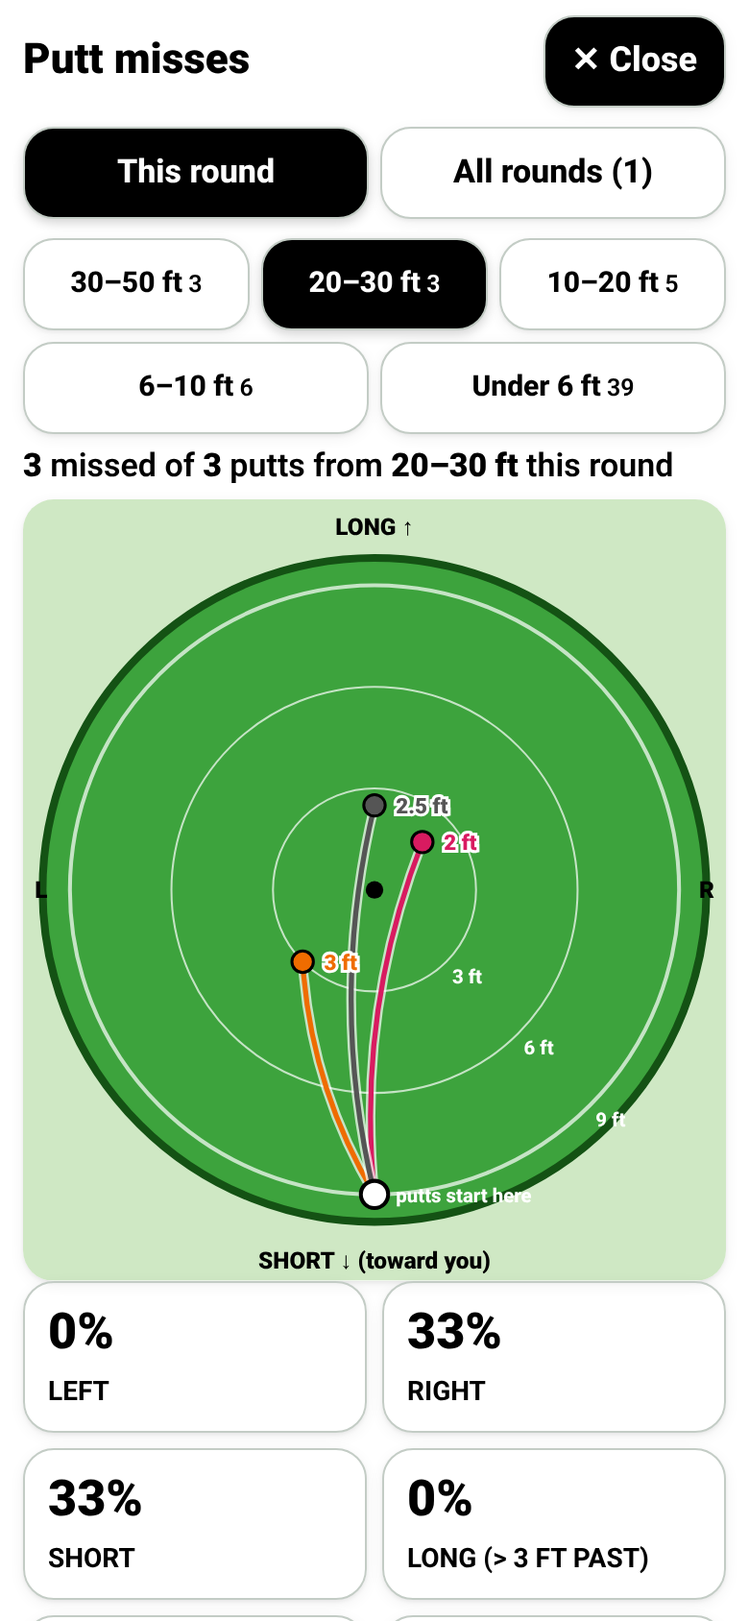
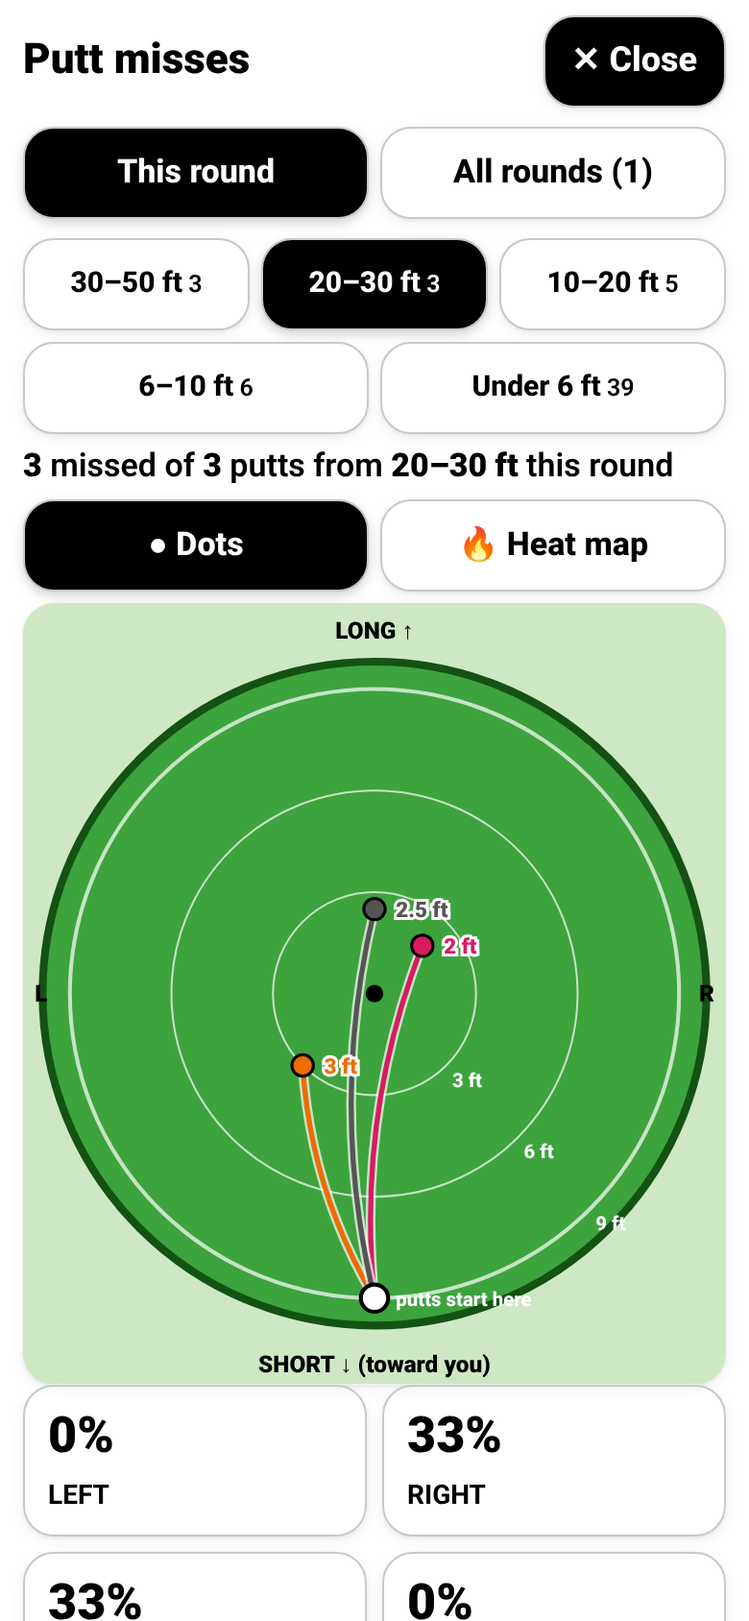
v50: heat maps with islands + average finish on prox/GIR/miss/pin/putt/putt-miss maps

diff --git a/app.js b/app.js
@@ -102,7 +102,7 @@
     else if (view.screen === 'home' || !round()) el.innerHTML = homeHTML();
     else if (view.screen === 'hole') el.innerHTML = holeHTML() + (view.pinOpen ? pinHTML() : '') + (view.replay != null ? replayHTML() : '');
     else if (view.screen === 'about') el.innerHTML = aboutHTML();
-    else { el.innerHTML = summaryHTML() + (view.map ? mapHTML() : '') + (view.replay != null ? replayHTML() : ''); if (view.preview) previewOnly(el); }
+    else { el.innerHTML = summaryHTML() + (view.map ? mapHTML() : '') + (view.replay != null ? replayHTML() : ''); if (view.map) applyHeat(); if (view.preview) previewOnly(el); }
     if (view.screen !== 'hole') document.body.classList.toggle('noscroll', !!(view.map && view.screen === 'summary'));
     if (view.replay != null) document.body.classList.add('noscroll');
     if (view.screen !== 'about') infoize(el);
@@ -974,7 +974,7 @@
       ms.forEach(function (m, i) {
         var ring = i % 3, col = Math.floor(i / 3) % 7, off = (col % 2 ? 1 : -1) * Math.ceil(col / 2) * 6;
         var p = pt(C, CY, (diag ? 96 : 92) + ring * 14, a + off);
-        out += '<circle class="mdot" cx="' + f1(p[0]) + '" cy="' + f1(p[1]) + '" r="6" fill="' + (LIE_COL[m.lie] || '#888') + '" stroke="#000" stroke-width="2"/>';
+        out += '<circle class="mdot" data-hd="' + (m.dist || 0) + '" data-hu="' + (m.unit || 'yd') + '" cx="' + f1(p[0]) + '" cy="' + f1(p[1]) + '" r="6" fill="' + (LIE_COL[m.lie] || '#888') + '" stroke="#000" stroke-width="2"/>';
       });
       var b = pt(C, CY, diag ? 172 : 150, a);
       out += '<g class="mcount" data-dir="' + d + '"><circle cx="' + f1(b[0]) + '" cy="' + f1(b[1]) + '" r="15" fill="' + (c[d] ? '#000' : '#fff') + '" stroke="#000" stroke-width="2"/>' +
@@ -1001,10 +1001,10 @@
       var key = (m.holed ? 'h' : m.dir || 'none') + Math.round(rr / 6), j = seen[key] = (seen[key] || 0) + 1;
       var p = m.holed ? [C - 14 + (j - 1) * 14, CY + 16] : pt(C, CY, rr, (nodir ? 90 : SG.DIR_ANGLE[m.dir]) + (j - 1) * (nodir ? 8 : 6));
       var x = f1(p[0]), y = f1(p[1]), kind = m.holed ? 'holed' : nodir ? 'nodir' : 'dir';
-      if (m.holed) out += '<path class="gdot" data-kind="holed" data-hole="' + m.hole + '" d="M' + x + ' ' + (y - 10) + ' l3 6.5 7 .8 -5.3 4.8 1.5 7 -6.2 -3.6 -6.2 3.6 1.5 -7 -5.3 -4.8 7 -.8z" fill="#ffd23f" stroke="#000" stroke-width="2"/>';
-      else if (nodir) out += '<g class="gdot" data-kind="nodir" data-hole="' + m.hole + '" data-x="' + x + '" data-y="' + y + '"><path d="M' + x + ' ' + (y - 10) + ' l10 10 -10 10 -10 -10z" fill="' + (far ? '#ffd23f' : '#c9c9c9') + '" stroke="#000" stroke-width="2.5"/>' +
+      if (m.holed) out += '<path class="gdot" data-hd="' + (m.holed ? 0 : m.ft) + '" data-hu="ft" data-kind="holed" data-hole="' + m.hole + '" d="M' + x + ' ' + (y - 10) + ' l3 6.5 7 .8 -5.3 4.8 1.5 7 -6.2 -3.6 -6.2 3.6 1.5 -7 -5.3 -4.8 7 -.8z" fill="#ffd23f" stroke="#000" stroke-width="2"/>';
+      else if (nodir) out += '<g class="gdot" data-hd="' + (m.holed ? 0 : m.ft) + '" data-hu="ft" data-kind="nodir" data-hole="' + m.hole + '" data-x="' + x + '" data-y="' + y + '"><path d="M' + x + ' ' + (y - 10) + ' l10 10 -10 10 -10 -10z" fill="' + (far ? '#ffd23f' : '#c9c9c9') + '" stroke="#000" stroke-width="2.5"/>' +
         '<text x="' + x + '" y="' + f1(p[1] + 5) + '" text-anchor="middle" font-size="13" font-weight="900" fill="#000">?</text></g>';
-      else out += '<circle class="gdot" data-kind="dir" data-hole="' + m.hole + '" cx="' + x + '" cy="' + y + '" r="8" fill="' + (far ? '#ffd23f' : '#fff') + '" stroke="#000" stroke-width="2.5"/>';
+      else out += '<circle class="gdot" data-hd="' + (m.holed ? 0 : m.ft) + '" data-hu="ft" data-kind="dir" data-hole="' + m.hole + '" cx="' + x + '" cy="' + y + '" r="8" fill="' + (far ? '#ffd23f' : '#fff') + '" stroke="#000" stroke-width="2.5"/>';
       if (far) out += '<text class="farlbl" x="' + f1(p[0] + 12) + '" y="' + f1(p[1] + 5) + '" font-size="14" font-weight="900" fill="#000" stroke="#ffd23f" stroke-width="3" paint-order="stroke">' + Math.round(ft) + ' ft</text>';
     });
     out += '<text x="180" y="17" text-anchor="middle" font-size="14" font-weight="800">LONG ↑</text>' +
@@ -1140,6 +1140,70 @@
   // ---------- proximity by distance ----------
   function fmtFt(v) { return v == null ? '–' : Math.round(v) + ' ft'; }
   // ---------- Putting green ----------
+  // ---------- Heat maps (app only) ----------
+  // Every map marker carries data-hd (distance to the hole) + data-hu (ft|yd). Heat mode hides the dots and
+  // paints soft density blobs; nearby blobs are grouped into "islands" (single-linkage, 40 px), each labelled
+  // with its average distance and shot count; a crosshair marks the average finish of all plotted shots.
+  var HEAT_MAPS = { gir: 'girmap', miss: 'missmap', pin: 'pinmap', prox: 'proxmap', putt: 'puttmap', pmiss: 'pmissmap' };
+  var HEAT_LINK = 62;
+  function heatCenter(svg, kind) {
+    if (kind === 'prox') return [PX.cx, PX.cy];
+    if (kind === 'putt') return [PG2.cx, PG2.cy];
+    if (kind === 'pin') { var f = svg.querySelector('#pinflag'); if (f) return [+f.getAttribute('cx'), +f.getAttribute('cy')]; }
+    return [180, 200];
+  }
+  function heatIslands(pts, link) {
+    var id = pts.map(function (_, i) { return i; }), find = function (i) { while (id[i] !== i) i = id[i] = id[id[i]]; return i; };
+    for (var i = 0; i < pts.length; i++) for (var j = i + 1; j < pts.length; j++) if (Math.hypot(pts[i].x - pts[j].x, pts[i].y - pts[j].y) <= link) id[find(i)] = find(j);
+    var g = {}; pts.forEach(function (p, i) { (g[find(i)] = g[find(i)] || []).push(p); });
+    return Object.keys(g).map(function (k) { return g[k]; }).sort(function (a, b) { return b.length - a.length; });
+  }
+  function heatFmt(list) { // average distance; yards when every shot is off the green in yd, else feet
+    var yd = list.every(function (p) { return p.u === 'yd'; }), v = list.reduce(function (a, p) { return a + (yd ? p.d : p.u === 'yd' ? p.d * 3 : p.d); }, 0) / list.length;
+    return Math.round(v) + (yd ? ' yd' : ' ft');
+  }
+  function applyHeat() {
+    var mv = document.getElementById('mapview'); if (!mv || !HEAT_MAPS[view.map]) return;
+    var svg = mv.querySelector('#' + HEAT_MAPS[view.map]); if (!svg) return;
+    var C = heatCenter(svg, view.map), NS = 'http://www.w3.org/2000/svg', pts = [];
+    svg.querySelectorAll('[data-hd]').forEach(function (e) {
+      var k = (e.getAttribute('data-kind') || '') + (e.getAttribute('data-class') || ''); if (/nodir/.test(k)) return;
+      var b = e.getBBox(); pts.push({ x: b.x + b.width / 2, y: b.y + b.height / 2, d: +e.getAttribute('data-hd') || 0, u: e.getAttribute('data-hu') || 'ft' });
+    });
+    var auto = (view.mapScope === 'all' && rounds.length > 1) || pts.length > 15, on = view.heat == null ? auto : view.heat;
+    var tg = document.createElement('div'); tg.className = 'seg heattog'; tg.id = 'heattog';
+    tg.innerHTML = '<button data-act="heat" data-v="0" class="' + (on ? '' : 'sel') + '" aria-pressed="' + !on + '">● Dots</button><button data-act="heat" data-v="1" class="' + (on ? 'sel' : '') + '" aria-pressed="' + on + '"' + (pts.length ? '' : ' disabled') + '>🔥 Heat map</button>';
+    var anc = svg; while (anc.parentNode && anc.parentNode !== mv) anc = anc.parentNode;
+    anc.parentNode.insertBefore(tg, anc);
+    if (!on || !pts.length) return;
+    svg.classList.add('heat');
+    var h = '<defs><radialGradient id="hgrad"><stop offset="0" stop-color="#ff1e00" stop-opacity=".62"/><stop offset=".45" stop-color="#ff9a00" stop-opacity=".34"/><stop offset="1" stop-color="#ffe600" stop-opacity="0"/></radialGradient></defs>';
+    pts.forEach(function (p) { h += '<circle class="hblob" cx="' + f1(p.x) + '" cy="' + f1(p.y) + '" r="26" fill="url(#hgrad)"/>'; });
+    var isl = heatIslands(pts, HEAT_LINK), boxes = [];
+    isl.forEach(function (g, i) {
+      var mx = g.reduce(function (a, p) { return a + p.x; }, 0) / g.length, top = Math.min.apply(null, g.map(function (p) { return p.y; }));
+      var t = heatFmt(g) + ' · ' + g.length + (g.length === 1 ? ' shot' : ' shots'), w = t.length * 6.2 + 10, x = Math.max(4, Math.min(356 - w, mx - w / 2)), y = top - 34;
+      for (var k = 0; k < 6 && boxes.some(function (b) { return x < b[2] && x + w > b[0] && y < b[3] && y + 18 > b[1]; }); k++) y += 22;
+      if (y < 4) y = top + 28; boxes.push([x, y, x + w, y + 18]);
+      h += '<g class="island" data-n="' + g.length + '"><rect x="' + f1(x) + '" y="' + f1(y) + '" width="' + f1(w) + '" height="18" rx="9" fill="#fff" fill-opacity=".93" stroke="#7a2a00"/>' +
+        '<text x="' + f1(x + w / 2) + '" y="' + f1(y + 13) + '" text-anchor="middle" font-size="11" font-weight="900" fill="#7a2a00">' + esc(t) + '</text></g>';
+    });
+    // average finish (all plotted shots): pixel mean for the marker, real distances for the words
+    var ax = 0, ay = 0, lr = 0, lg = 0, yd = pts.every(function (p) { return p.u === 'yd'; });
+    pts.forEach(function (p) { ax += p.x; ay += p.y; var dx = p.x - C[0], dy = C[1] - p.y, L = Math.hypot(dx, dy) || 1, d = yd ? p.d : p.u === 'yd' ? p.d * 3 : p.d; lr += d * dx / L; lg += d * dy / L; });
+    ax /= pts.length; ay /= pts.length; lr /= pts.length; lg /= pts.length;
+    h += '<g id="heatavg"><circle cx="' + f1(ax) + '" cy="' + f1(ay) + '" r="9" fill="none" stroke="#000" stroke-width="3"/><circle cx="' + f1(ax) + '" cy="' + f1(ay) + '" r="9" fill="none" stroke="#fff" stroke-width="1.2"/>' +
+      '<path d="M' + f1(ax - 15) + ' ' + f1(ay) + ' h30 M' + f1(ax) + ' ' + f1(ay - 15) + ' v30" stroke="#000" stroke-width="2.4"/></g>';
+    var g = document.createElementNS(NS, 'g'); g.setAttribute('id', 'heatlayer'); g.innerHTML = h; svg.appendChild(g);
+    var U = yd ? ' yd' : ' ft', part = function (v, a, b) { return Math.round(Math.abs(v)) ? Math.round(Math.abs(v)) + U + ' ' + (v > 0 ? a : b) : ''; };
+    var words = [part(lg, 'long', 'short'), part(lr, 'right', 'left')].filter(Boolean).join(', ');
+    var sm = document.createElement('p'); sm.className = 'heatsum'; sm.id = 'heatsum';
+    sm.innerHTML = '<b>⊕ Average ' + (view.map === 'putt' ? 'putt start' : 'finish') + ':</b> ' + (words ? words + ' of the hole' : 'centred on the hole') + ' · ' + pts.length + ' shot' + (pts.length === 1 ? '' : 's') + (isl.length > 1 ? ' in ' + isl.length + ' groups' : '') + '.';
+    anc.parentNode.insertBefore(sm, anc.nextSibling);
+    var lg2 = document.createElement('p'); lg2.className = 'help muted'; lg2.id = 'heatnote';
+    lg2.textContent = 'Heat map: red = most shots, yellow = few. Each white tag is one cluster of shots (average distance to the hole · number of shots). ⊕ = average finish of all shots shown. Shots with no direction entered are left out.';
+    sm.parentNode.insertBefore(lg2, sm.nextSibling);
+  }
   // ---------- Hole replay (app only): bird's-eye drawing of one hole with every shot chained ----------
   var RPC = { tee: '#1565e0', approach: '#6a1b9a', short: '#ef6c00', putting: '#fff' };
   var RPN = { tee: 'Tee shot', approach: 'Approach', short: 'Short game', putting: 'Putt' };
@@ -1278,7 +1342,7 @@
       tr += '<path class="pmtr" data-class="' + cls + '" d="M' + f1(s[0]) + ' ' + f1(s[1]) + ' Q' + f1(mx) + ' ' + f1(my) + ' ' + f1(e[0]) + ' ' + f1(e[1]) + '" fill="none" stroke="#fff" stroke-width="5" stroke-opacity=".7"/>' +
         '<path d="M' + f1(s[0]) + ' ' + f1(s[1]) + ' Q' + f1(mx) + ' ' + f1(my) + ' ' + f1(e[0]) + ' ' + f1(e[1]) + '" fill="none" stroke="' + col + '" stroke-width="2.6"/>';
       dots += cls === 'nodir' ? '<g class="pmend" data-class="nodir"><path d="M' + f1(e[0]) + ' ' + f1(e[1] - 8) + ' l8 8 -8 8 -8 -8z" fill="#fff" stroke="#555" stroke-width="2"/><text x="' + f1(e[0]) + '" y="' + f1(e[1] + 4) + '" text-anchor="middle" font-size="10" font-weight="900">?</text></g>'
-        : '<circle class="pmend" data-class="' + cls + '" cx="' + f1(e[0]) + '" cy="' + f1(e[1]) + '" r="5.5" fill="' + col + '" stroke="#000" stroke-width="1.5"/>';
+        : '<circle class="pmend" data-hd="' + p.endFt + '" data-hu="ft" data-class="' + cls + '" cx="' + f1(e[0]) + '" cy="' + f1(e[1]) + '" r="5.5" fill="' + col + '" stroke="#000" stroke-width="1.5"/>';
       boxes.push([e[0] - 6, e[1] - 6, e[0] + 6, e[1] + 6]);
       pend.push([e[0], e[1], (Math.round(p.endFt * 10) / 10) + ' ft' + (clamped ? ' ›' : ''), col]);
     });
@@ -1339,7 +1403,7 @@
     var dots = '', boxes = ringBoxes.concat([[130, 3, 230, 21], [80, 380, 280, 398], [0, PG2.cy - 10, 30, PG2.cy + 6], [330, PG2.cy - 10, 360, PG2.cy + 6]]), lbls = '';
     SG.puttPlace(list, sc, PG2.cx, PG2.cy, PG2.R, 15).forEach(function (d) {
       var p = d.p, q = [d.x, d.y], x = f1(d.x), y = f1(d.y), kd = SG.puttKind(p), col = PCOL[kd];
-      var at = ' class="pdot2" data-made="' + (p.made ? 1 : 0) + '" data-ft="' + p.ft + '" data-hole="' + p.hole + '" data-dir="' + (p.dir || '') + '" data-beyond="' + (d.beyond ? 1 : 0) + '" data-pk="' + kd + '"';
+      var at = ' class="pdot2" data-hd="' + p.ft + '" data-hu="ft" data-made="' + (p.made ? 1 : 0) + '" data-ft="' + p.ft + '" data-hole="' + p.hole + '" data-dir="' + (p.dir || '') + '" data-beyond="' + (d.beyond ? 1 : 0) + '" data-pk="' + kd + '"';
       if (d.nodir) dots += '<g' + at + ' data-kind="nodir"><path d="M' + x + ' ' + (y - 9) + ' l9 9 -9 9 -9 -9z" fill="' + (p.made ? col : '#fff') + '" stroke="' + col + '" stroke-width="3"/><text x="' + x + '" y="' + (+y + 4.5) + '" text-anchor="middle" font-size="11" font-weight="900" fill="' + (p.made ? '#fff' : col) + '">?</text></g>';
       else dots += '<circle' + at + ' data-kind="dir" cx="' + x + '" cy="' + y + '" r="6.5" fill="' + (p.made ? col : '#fff') + '" stroke="' + col + '" stroke-width="3"/>';
       boxes.push([q[0] - 8, q[1] - 9, q[0] + 8, q[1] + 9]);
@@ -1475,7 +1539,7 @@
       if (kind !== 'missnodir') tr += (RG ? '<path d="' + flight(ox, oy, q[0], q[1], i) + '" fill="none" stroke="' + RG.halo + '" stroke-width="5.5" stroke-opacity=".8"/>' : '') +
         '<path class="tracer"' + (RG ? ' data-group="' + SG.reportGroup(m.from) + '"' : '') + ' data-start="' + st[2] + '" data-sx="' + f1(ox) + '" data-sy="' + f1(oy) + '" data-ex="' + x + '" data-ey="' + y + '" d="' + flight(ox, oy, q[0], q[1], i) + '" fill="none" stroke="' + col + '" stroke-width="' + (RG ? 3 : 2.5) + '" stroke-opacity="' + (RG ? 1 : 0.75) + '"/>';
       starts += '<circle class="xstart" data-start="' + st[2] + '" data-hole="' + m.hole + '" cx="' + f1(ox) + '" cy="' + f1(oy) + '" r="4" fill="#fff" stroke="' + col + '" stroke-width="2"/>';
-      var attrs = ' class="xdot" data-kind="' + kind + '" data-hole="' + m.hole + '" data-from="' + m.from + '"' + (clamped ? ' data-clamped="1"' : '');
+      var attrs = ' class="xdot" data-hd="' + (kind === 'holed' ? 0 : /^miss/.test(kind) ? (m.yd || 0) : (m.proxFt || 0)) + '" data-hu="' + (/^miss/.test(kind) ? 'yd' : 'ft') + '" data-kind="' + kind + '" data-hole="' + m.hole + '" data-from="' + m.from + '"' + (clamped ? ' data-clamped="1"' : '');
       if (kind === 'holed') dots += '<path' + attrs + ' d="M' + x + ' ' + (y - 10) + ' l3 6.5 7 .8 -5.3 4.8 1.5 7 -6.2 -3.6 -6.2 3.6 1.5 -7 -5.3 -4.8 7 -.8z" fill="#ffd23f" stroke="#1e6fd9" stroke-width="2"/>';
       else if (kind === 'hitnodir' || kind === 'missnodir') dots += '<g' + attrs + ' data-x="' + x + '" data-y="' + y + '"><path d="M' + x + ' ' + (y - 10) + ' l10 10 -10 10 -10 -10z" fill="' + (RG && !m.hit ? '#fff' : col) + '" stroke="' + (RG && !m.hit ? col : '#000') + '" stroke-width="' + (RG && !m.hit ? 3.5 : 2) + '"/><text x="' + x + '" y="' + (+y + 4.5) + '" text-anchor="middle" font-size="12" font-weight="900" fill="' + (RG && (!m.hit || RG.halo === '#000') ? '#000' : '#fff') + '">?</text></g>';
       else if (RG && !m.hit) dots += '<g' + attrs + '><circle cx="' + x + '" cy="' + y + '" r="7.5" fill="#fff" stroke="' + col + '" stroke-width="3.5"/><path d="M' + f1(q[0] - 3.5) + ' ' + f1(q[1] - 3.5) + ' l7 7 m0 -7 l-7 7" stroke="#000" stroke-width="2.2"/></g>';
@@ -1578,9 +1642,9 @@
       if (!m.holed && !inside(q)) { var lo = 0, hi = 1; for (var it = 0; it < 20; it++) { var md = (lo + hi) / 2; if (inside([P[0] + (q[0] - P[0]) * md, P[1] + (q[1] - P[1]) * md])) lo = md; else hi = md; }
         q = [P[0] + (q[0] - P[0]) * lo, P[1] + (q[1] - P[1]) * lo]; cl = ' data-edge="1"'; }
       var x = f1(q[0]), y = f1(q[1]);
-      if (m.holed) out += '<path class="pdot" data-kind="holed" data-hole="' + m.hole + '" d="M' + x + ' ' + (y - 10) + ' l3 6.5 7 .8 -5.3 4.8 1.5 7 -6.2 -3.6 -6.2 3.6 1.5 -7 -5.3 -4.8 7 -.8z" fill="#ffd23f" stroke="#000" stroke-width="2"/>';
+      if (m.holed) out += '<path class="pdot" data-hd="0" data-hu="ft" data-kind="holed" data-hole="' + m.hole + '" d="M' + x + ' ' + (y - 10) + ' l3 6.5 7 .8 -5.3 4.8 1.5 7 -6.2 -3.6 -6.2 3.6 1.5 -7 -5.3 -4.8 7 -.8z" fill="#ffd23f" stroke="#000" stroke-width="2"/>';
       else if (nod) out += '<g class="pdot" data-kind="nodir" data-hole="' + m.hole + '" data-x="' + x + '" data-y="' + y + '"><path d="M' + x + ' ' + (y - 9) + ' l9 9 -9 9 -9 -9z" fill="' + (m.gir ? '#fff' : '#bdbdbd') + '" stroke="#000" stroke-width="2.5"/><text x="' + x + '" y="' + (y + 4.5) + '" text-anchor="middle" font-size="12" font-weight="900">?</text></g>';
-      else out += '<circle class="pdot" data-kind="' + (m.gir ? 'gir' : 'hit') + '"' + cl + ' data-hole="' + m.hole + '" cx="' + x + '" cy="' + y + '" r="7" fill="' + (m.gir ? '#fff' : '#bdbdbd') + '" stroke="#000" stroke-width="2.5"/>';
+      else out += '<circle class="pdot" data-hd="' + ft + '" data-hu="ft" data-kind="' + (m.gir ? 'gir' : 'hit') + '"' + cl + ' data-hole="' + m.hole + '" cx="' + x + '" cy="' + y + '" r="7" fill="' + (m.gir ? '#fff' : '#bdbdbd') + '" stroke="#000" stroke-width="2.5"/>';
       if (!m.holed) out += lbl(q[0], q[1] + 20, Math.round(ft) + ' ft', '', 'plbl');
     });
     // missed greens: off the green in the miss direction
@@ -1600,7 +1664,7 @@
       var side = Math.floor((j - 1) / 2) * 34 * (j % 4 < 2 ? 1 : -1);
       q = [q[0] + side * Math.sin(t), q[1] + side * Math.cos(t)];
       q = [Math.max(24, Math.min(336, q[0])), Math.max(14, Math.min(420, q[1]))];
-      out += '<circle class="pdot" data-kind="miss" data-gir="' + (m.gir ? 1 : 0) + '" data-hole="' + m.hole + '" cx="' + f1(q[0]) + '" cy="' + f1(q[1]) + '" r="7" fill="#e0102a" stroke="#000" stroke-width="2.5"/>' +
+       out += '<circle class="pdot" data-hd="' + (m.dist || 0) + '" data-hu="' + (m.unit || 'yd') + '" data-kind="miss" data-gir="' + (m.gir ? 1 : 0) + '" data-hole="' + m.hole + '" cx="' + f1(q[0]) + '" cy="' + f1(q[1]) + '" r="7" fill="#e0102a" stroke="#000" stroke-width="2.5"/>' +
         lbl(q[0], q[1] + 20, m.lie === 'ob' ? 'OB' : Math.round(m.dist) + (m.unit === 'ft' ? ' ft' : ' yd'), m.lie === 'ob' ? '' : (LN[m.lie] || (m.lie === 'green' ? 'Green' : m.lie)), 'mlbl');
     });
     out += '<line x1="' + f1(P[0]) + '" y1="' + f1(P[1]) + '" x2="' + f1(P[0]) + '" y2="' + f1(P[1] - 30) + '" stroke="#000" stroke-width="3"/>' +
@@ -1726,7 +1790,7 @@
       case 'about': view.back = view.screen; view.screen = 'about'; render(); window.scrollTo(0, 0); return;
       case 'aboutBack': view.screen = view.back && view.back !== 'about' ? view.back : 'home'; render(); window.scrollTo(0, 0); return;
       case 'setbl': setBaseline(v); return;
-      case 'map': view.map = v; view.pinSeg = null; if (v === 'prox') view.proxB = null; view.mapScope = view.mapScope || 'round'; render(); return;
+      case 'map': view.map = v; view.pinSeg = null; view.heat = null; if (v === 'prox') view.proxB = null; view.mapScope = view.mapScope || 'round'; render(); return;
       case 'pinseg': view.pinSeg = v || null; render(); var pv = document.getElementById('mapview'); if (pv) pv.scrollTop = 0; return;
       case 'mapclose': view.map = null; render(); return;
       case 'pinopen': view.pinOpen = true; view.menu = null; view.dirk = null; render(); return;
@@ -1736,6 +1800,7 @@
       case 'proxb': { var mv0 = document.getElementById('mapview'), st0 = mv0 ? mv0.scrollTop : 0; view.proxB = v; render(); var mv1 = document.getElementById('mapview'); if (mv1) mv1.scrollTop = st0; return; }
       case 'proxlie': { var mvl = document.getElementById('mapview'), stl = mvl ? mvl.scrollTop : 0; view.proxLie = v; render(); var mvl2 = document.getElementById('mapview'); if (mvl2) mvl2.scrollTop = stl; return; }
       case 'sgtoggle': view.sgOpen = !view.sgOpen; render(); if (view.sgOpen) { var sh = document.getElementById('sgsec'); if (sh) window.scrollTo(0, sh.getBoundingClientRect().top + window.scrollY - 90); } return;
+      case 'heat': view.heat = v === '1'; render(); return;
       case 'replay': view.replay = Math.max(0, +v || 0); render(); return;
       case 'rpgreen': view.rpGreen = true; render(); return;
       case 'rpgreenback': view.rpGreen = false; render(); return;
@@ -1743,7 +1808,7 @@
       case 'rpclose': view.replay = null; view.rpGreen = false; document.body.classList.remove('noscroll'); render(); return;
       case 'pmg': { var mvq = document.getElementById('mapview'), stq = mvq ? mvq.scrollTop : 0; view.pmG = v; render(); var mvq2 = document.getElementById('mapview'); if (mvq2) mvq2.scrollTop = stq; return; }
       case 'puttn': { var mvp = document.getElementById('mapview'), stp = mvp ? mvp.scrollTop : 0; view.puttN = v; render(); var mvp2 = document.getElementById('mapview'); if (mvp2) mvp2.scrollTop = stp; return; }
-      case 'mapscope': view.mapScope = v; render(); var mv = document.getElementById('mapview'); if (mv) mv.scrollTop = 0; return;
+      case 'mapscope': view.mapScope = v; view.heat = null; render(); var mv = document.getElementById('mapview'); if (mv) mv.scrollTop = 0; return;
       case 'dirpick': view.dirk = k; view.menu = null; break;
       case 'dirclose': view.dirk = null; break;
       case 'setdir': h.rows[view.dirk].dir = v || ''; view.dirk = null; save(); break;

diff --git a/tests/heat-focused.js b/tests/heat-focused.js
@@ -1,0 +1,48 @@
+const { chromium } = require('playwright-core'); const assert = require('assert'); const { spawn } = require('child_process');
+const BASE = process.env.BASE_URL || 'http://127.0.0.1:8774/', OUT = '/workspace/golf-app/screenshots/';
+(async () => {
+  const srv = process.env.NO_SERVER ? null : spawn('python3', ['-m', 'http.server', '8774', '--bind', '127.0.0.1'], { cwd: '/workspace/golf-app', stdio: 'ignore' });
+  await new Promise(r => setTimeout(r, 1500)); const errors = [];
+  const b = await chromium.launch({ executablePath: '/usr/bin/google-chrome', args: ['--no-sandbox'] });
+  const page = await (await b.newContext({ viewport: { width: 390, height: 844 }, deviceScaleFactor: 2, isMobile: true, hasTouch: true })).newPage();
+  page.setDefaultTimeout(60000); page.on('pageerror', e => errors.push(String(e))); page.on('dialog', d => d.accept());
+  await page.goto(BASE + '?x=' + Date.now());
+  await page.evaluate(() => {
+    const R = (d, l, dir) => ({ dist: d, loc: l, dir: dir || '', pen: false });
+    const D = ['left', 'right', 'long', 'short', 'shortleft', 'longright', 'right', 'shortright'], P = ['center', 'frontleft', 'backright', 'center', 'front', 'back'];
+    const mk = (id, day, seed) => ({ v: 3, dv: 2, id, date: '2026-10-0' + day + 'T17:00:00.000Z', course: 'Heat ' + id, baseline: 'pga', player: 'Scott',
+      holes: Array.from({ length: 18 }, (_, i) => { const k = i + seed, dir = D[k % 8], app = 90 + (k * 17) % 110;
+        const rows = k % 3 === 0
+          ? [R(400, 'tee'), R(app, 'fairway', D[(k + 3) % 8]), R(8 + k % 14, 'rough', dir), R(4 + k % 9, 'green', D[(k + 1) % 8]), R(1 + k % 3, 'holed', D[(k + 2) % 8])]
+          : [R(390, 'tee'), R(app, 'fairway', D[(k + 5) % 8]), R(6 + (k * 7) % 34, 'green', dir), R(1 + k % 5, 'holed', D[(k + 4) % 8])];
+        return { par: 4, pin: P[k % 6], finished: true, rows }; }) });
+    localStorage.clear(); localStorage.setItem('golfsg.player.v1', 'Scott');
+    localStorage.setItem('golfsg.rounds.v1', JSON.stringify([mk('h1', 7, 0), mk('h2', 8, 5)]));
+  });
+  await page.reload(); await page.click('[data-act="history"]'); await page.click('#histlist [data-act="open"][data-id="h2"]');
+  const maps = ['prox', 'gir', 'miss', 'pin', 'putt', 'pmiss'];
+  for (const m of maps) {
+    await page.click('[data-act="map"][data-v="' + m + '"]'); await page.waitForSelector('#mapview');
+    await page.click('[data-act="mapscope"][data-v="all"]');
+    if (m === 'pin') await page.click('[data-act="pinseg"][data-v="center"]');
+    await page.waitForSelector('#heattog');
+    if (m === 'prox') { const all = await page.$('[data-act="proxb"][data-v="all"]'); if (all) await all.click(); await page.waitForSelector('#heattog'); }
+    if (m === 'pmiss') { await page.waitForSelector('#heattog'); }
+    const st = await page.evaluate(() => { const s = document.querySelector('#mapview svg.heat'); if (!s) return null;
+      return { blobs: s.querySelectorAll('.hblob').length, isl: [...s.querySelectorAll('.island')].map(g => +g.dataset.n), lbl: [...s.querySelectorAll('.island text')].map(t => t.textContent), avg: !!s.querySelector('#heatavg'), sum: document.getElementById('heatsum').textContent }; });
+    assert.ok(st, m + ': heat map on automatically for 2 rounds');
+    assert.ok(st.blobs > 0 && st.isl.reduce((a, b) => a + b, 0) === st.blobs, m + ' islands cover every shot ' + JSON.stringify(st));
+    assert.ok(st.lbl.every(t => /^\d+ (ft|yd) · \d+ shots?$/.test(t)), m + ' island labels ' + st.lbl);
+    assert.ok(st.avg && /Average (finish|putt start)/.test(st.sum), m + ' centroid');
+    console.log(m, st.blobs, 'shots', st.isl.length, 'islands', st.sum);
+    await page.locator('#heattog').scrollIntoViewIfNeeded(); await page.screenshot({ path: OUT + 'heatmap-' + m + '.png' });
+    await page.click('[data-act="heat"][data-v="0"]'); assert.strictEqual(await page.$('#mapview svg.heat'), null, m + ' toggles back to dots');
+    if (m === 'gir') { await page.locator('#heattog').scrollIntoViewIfNeeded(); await page.screenshot({ path: OUT + 'heatmap-gir-dots.png' }); }
+    await page.click('[data-act="heat"][data-v="1"]'); assert.ok(await page.$('#mapview svg.heat'));
+    await page.click('[data-act="mapscope"][data-v="round"]');
+    const one = await page.evaluate(() => [document.querySelectorAll('#mapview svg [data-hd]').length, !!document.querySelector('#mapview svg.heat')]);
+    if (one[0] <= 15) assert.strictEqual(one[1], false, m + ' single round with few shots stays dots');
+    await page.click('[data-act="mapclose"]');
+  }
+  assert.deepStrictEqual(errors, []); console.log('HEAT OK'); await b.close(); if (srv) srv.kill();
+})().catch(e => { console.error(e); process.exit(1); });

diff --git a/tests/focused.js b/tests/focused.js
@@ -147,6 +147,7 @@ const BASE = process.env.BASE_URL || 'http://127.0.0.1:8765/', SHOTS = process.e
   await page.screenshot({ path: SHOTS + '/37b-putting-2nd.png' });
   console.log('✓ 2nd putts: 10 ft close-up (linear, rings 1-10), 14 ft on edge with ›, row Dir used, no overlapping dots; 3rd+ greyed out (none this round)');
   await page.click('[data-act="mapscope"][data-v="all"]'); await page.click('#puttbtns [data-v="1"]');
+  if (await page.$('#mapview svg.heat')) await page.click('[data-act="heat"][data-v="0"]'); // 2 rounds -> heat map by default; check the dots
   await page.click('#puttbtns [data-v="2"]'); const n2 = await noOverlap('All 2nd'); await page.screenshot({ path: SHOTS + '/37c-putting-2nd-all.png' }); await page.click('#puttbtns [data-v="1"]');
   const allExp = await page.evaluate(() => { const c = { 1: 0, 2: 0, 3: 0 }; window.__golf.rounds().forEach(r => SG.summarize(r).puttList.forEach(p => c[SG.puttGroup(p.n)]++)); return c; });
   const pbAll = await page.$$eval('#puttbtns .pnbtn', bs => bs.map(b => [+b.getAttribute('data-n'), b.disabled]));

diff --git a/styles.css b/styles.css
@@ -357,3 +357,7 @@ button.discard { display: block; width: 100%; min-height: 48px; margin: 4px 0 10
 .clubrow .layup input { width: 26px; height: 26px; }
 .clubrow .layup small { font-weight: 500; color: #666; }
 .clubrow.putter { color: #777; padding-top: 0; }
+.heattog { margin: 6px 0; }
+svg.heat .xdot, svg.heat .gdot, svg.heat .mdot, svg.heat .pdot, svg.heat .pdot2, svg.heat .pmend, svg.heat .xlbl, svg.heat .plbl, svg.heat .pmlbl, svg.heat .mlbl, svg.heat .farlbl, svg.heat .xstart, svg.heat .mcount { display: none; }
+svg.heat path[fill="none"] { opacity: .12; }
+.heatsum { margin: 8px 2px; font-size: 16px; }

diff --git a/sw.js b/sw.js
@@ -1,5 +1,5 @@
 // Offline support: cache the whole app on install, serve cache-first.
-const CACHE = 'golf-sg-v49';
+const CACHE = 'golf-sg-v50';
 const ASSETS = ['./', './index.html', './styles.css', './sg.js', './app.js', './config.js', './onedrive.js', './vendor/msal-browser.min.js', './vendor/jspdf.umd.min.js',
   './manifest.webmanifest', './icons/apple-touch-icon.png', './icons/icon-192.png',
   './icons/icon-512.png', './icons/icon-512-maskable.png'];
